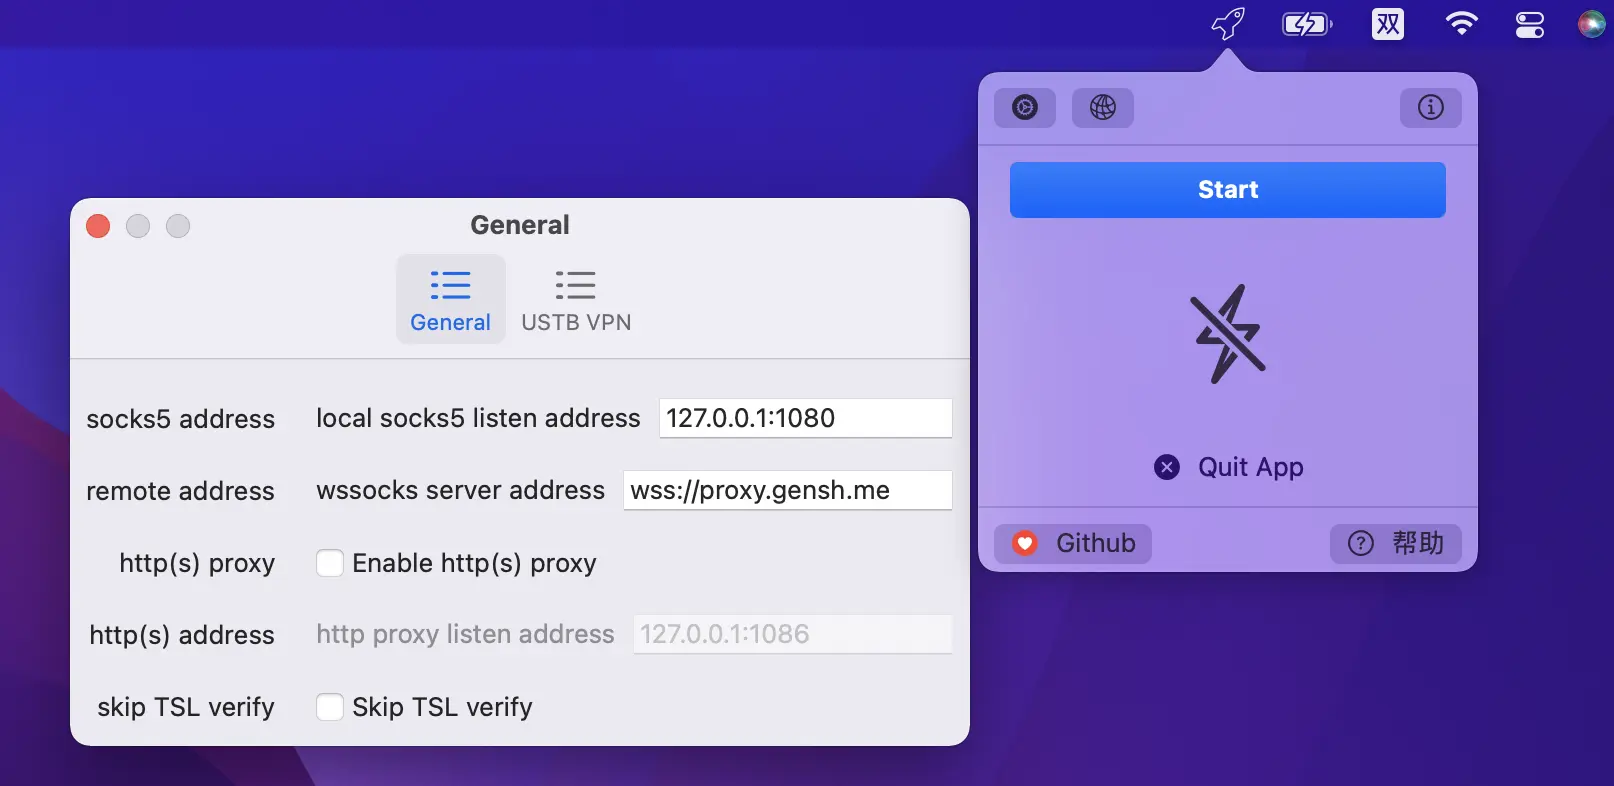
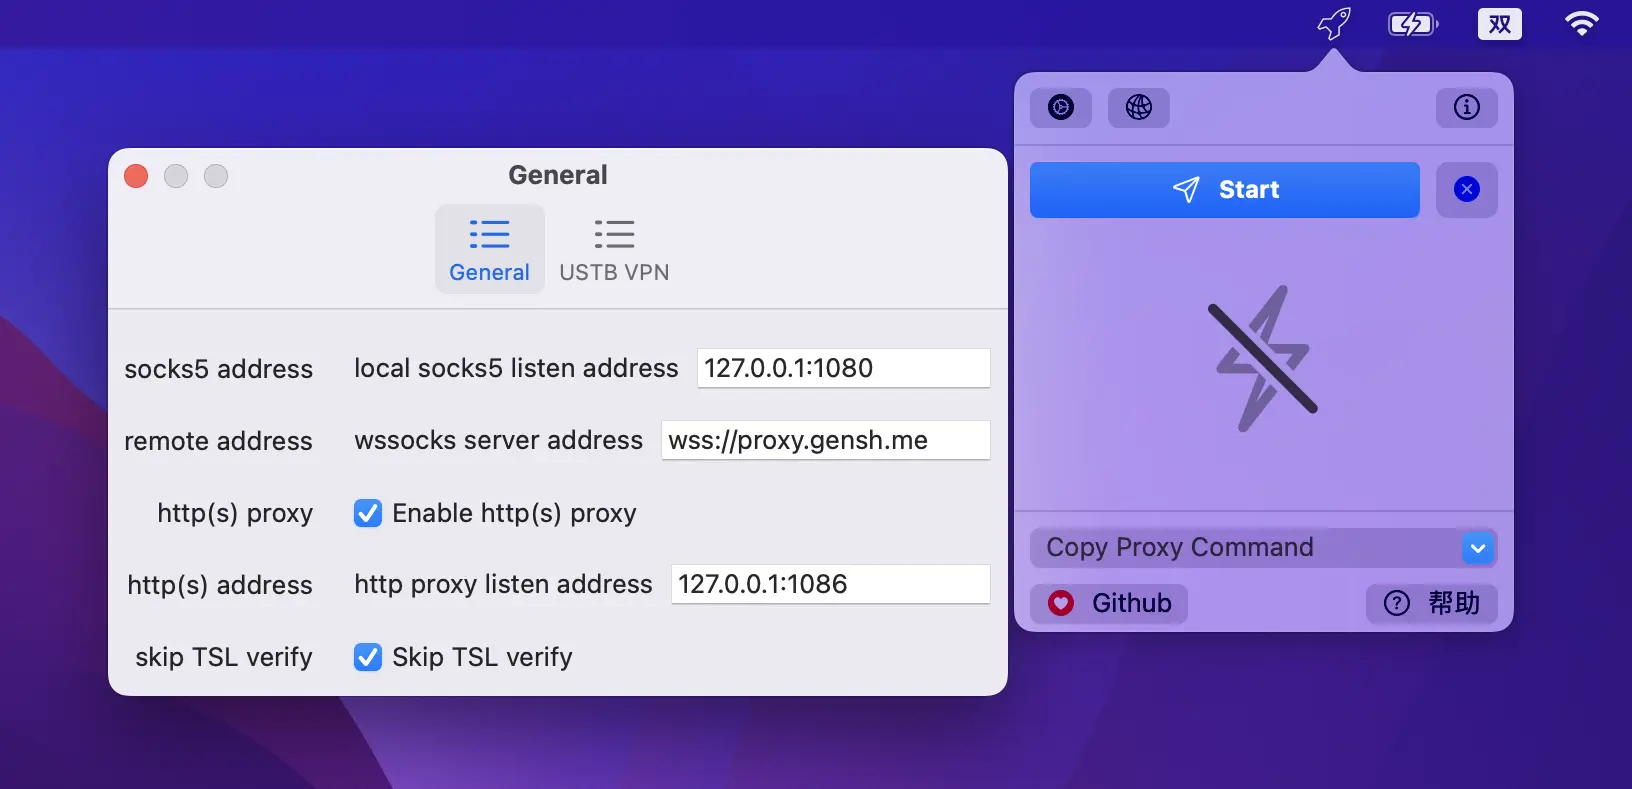
docs: add new screenshot for swiftui client and add screenshots to porject README

diff --git a/README.md b/README.md
@@ -15,9 +15,17 @@ See more about wssocks: https://github.com/genshen/wssocks.
 ## Clients
 The available clients for different platforms are list as follows:
 - cli: command line client.
-- client-ui: From v0.5.0, we also provide GUI [client](client-ui).
+- client-ui: From v0.5.0, we also provide a GUI [client](client-ui) for windows and macos.
+- swiftui-client: From v0.6.0 and v0.7.0, we also provide a mac native app (build using swiftui). You cn download the app in release page (filename:  `wssocks-ustb-client-macOS-*.app.zip`).
 
 Note: **wssocks** and wssocks-plugin-ustb plugin are all included in both cli and client-ui clients.
+
+**Screenshots**:
+| | cli | client-ui | swiftui-client |
+| -- | -- | --- |  ------ |
+| Screenshots | - | ![client ui](./docs/zh-cn/resource/client.webp) | ![swiftui](./docs/zh-cn/resource/macos-client.webp) |
+| Description | command line app for all platforms. | universal GUI client based on [fyne](https://fyne.io) cross platform toolkit. | macOS native client build using swiftUI. |
+| Supported Platforms | Windows x64, macOS x64/arm64, Linux x64/arm64 | Windows x64, macOS x64/arm64 | macOS x64/arm64 |
 
 ### install cli client
 ```bash
